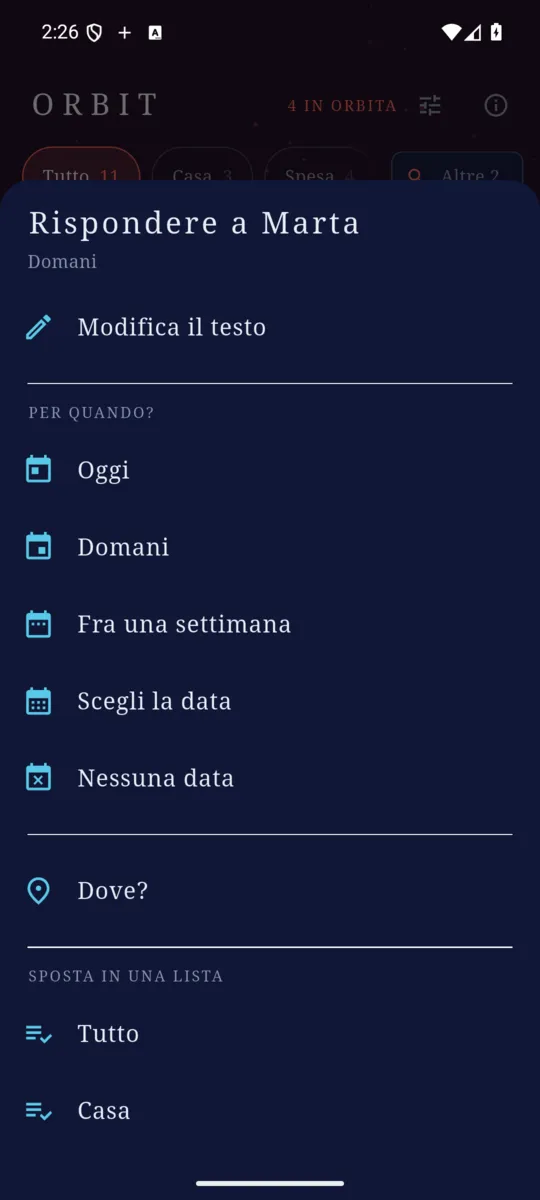
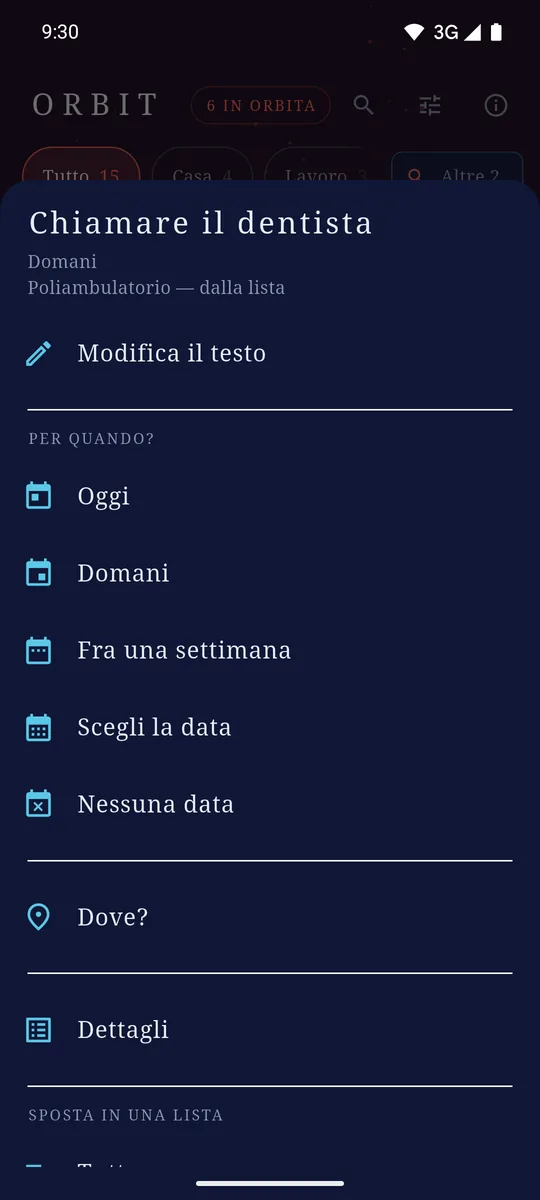
docs: la pagina di Orbit racconta le due viste
Schermate rifatte e due in più: la vista orbita, che tiene solo quello
che si sta avvicinando, e il foglio di una lista con la riga che la tiene
fuori da «Tutto». Nell'elenco di cosa fa entrano le due viste, le liste
nascoste e le cose fatte che escono dalla lista.

La schermata della condivisione mostra ora il foglio con il percorso
della cartella, che è il punto della funzione, invece di una lista con i
nomi di chi ha scritto cosa.

diff --git a/mcma-orbit/index.html b/mcma-orbit/index.html
@@ -31,6 +31,14 @@
       <figcaption>In cima c’è quello che preme di più. Il colore è la scadenza, non un’etichetta.</figcaption>
     </figure></li>
     <li><figure>
+      <img src="assets/shot-8.webp" loading="lazy" alt="La stessa lista con la vista orbita accesa: il numero in alto è illuminato e restano sei voci, quelle che si stanno avvicinando.">
+      <figcaption>Tocca il numero in alto e resta solo quello che sta arrivando, da tutte le liste.</figcaption>
+    </figure></li>
+    <li><figure>
+      <img src="assets/shot-9.webp" loading="lazy" alt="Il foglio di una lista, con la riga che la nasconde da «Tutto».">
+      <figcaption>Una lista può stare fuori da «Tutto» — la spesa, mentre lavori — e restare a un tocco.</figcaption>
+    </figure></li>
+    <li><figure>
       <img src="assets/shot-6.webp" loading="lazy" alt="Il foglio dei dettagli di una voce: un codice di ritiro, un collegamento ai referti, e sotto un numero di telefono che arriva dalla lista.">
       <figcaption>Quello che una voce si porta dietro. Le ultime due gliele presta la lista.</figcaption>
     </figure></li>
@@ -43,8 +51,8 @@
       <figcaption>Una lista per cosa, e le due o tre che usi restano in vista.</figcaption>
     </figure></li>
     <li><figure>
-      <img src="assets/shot-3.webp" loading="lazy" alt="Una lista condivisa: ogni voce porta il nome di chi l’ha scritta e il luogo della lista.">
-      <figcaption>Una lista condivisa: si vede chi ha toccato cosa, e il luogo vale per tutte.</figcaption>
+      <img src="assets/shot-3.webp" loading="lazy" alt="Il foglio della condivisione: il percorso della cartella da consegnare, e il pulsante per copiarlo.">
+      <figcaption>Condividere è dare alla lista una cartella, e consegnarla tu: nessun account.</figcaption>
     </figure></li>
     <li><figure>
       <img src="assets/shot-4.webp" loading="lazy" alt="Il foglio di una voce: data, luogo e lista in cui spostarla.">
@@ -72,6 +80,14 @@
     invece di venti.</li>
     <li><strong>Dettagli.</strong> Una voce può portarsi dietro un collegamento,
     un numero di telefono, un'e-mail, un codice. Un tocco apre, chiama, copia.</li>
+    <li><strong>Due viste, un tocco per passare.</strong> La lista è dove sono
+    archiviate le cose; l'orbita è cosa sta arrivando. Il numero in alto è il
+    passaggio fra le due.</li>
+    <li><strong>Una lista può stare fuori da «Tutto».</strong> La spesa non è una
+    cosa da leggere mentre lavori. Quello che nascondi continua a pesare nel
+    cielo e nei promemoria: è una scelta su cosa leggere, non su cosa sapere.</li>
+    <li><strong>Le cose fatte escono dalla lista</strong>, e una riga in fondo
+    dice quante sono: un tocco e tornano.</li>
     <li><strong>La ricerca guarda ovunque</strong>: in tutte le liste insieme,
     nei titoli e nei dettagli.</li>
     <li><strong>Promemoria</strong> alla data che hai messo, e widget per la

diff --git a/mcma-orbit/en/index.html b/mcma-orbit/en/index.html
@@ -30,6 +30,14 @@
       <figcaption>What presses hardest is at the top. The colour is the deadline, not a label.</figcaption>
     </figure></li>
     <li><figure>
+      <img src="../assets/shot-8.webp" loading="lazy" alt="The same list with the orbit view on: the count in the header is lit and six entries remain, the ones coming closer.">
+      <figcaption>Tap the count in the header and only what is coming stays, across every list.</figcaption>
+    </figure></li>
+    <li><figure>
+      <img src="../assets/shot-9.webp" loading="lazy" alt="A list's sheet, with the row that hides it from &quot;Everything&quot;.">
+      <figcaption>A list can stay out of "Everything" — the shopping, while you work — and still be one tap away.</figcaption>
+    </figure></li>
+    <li><figure>
       <img src="../assets/shot-6.webp" loading="lazy" alt="An entry's details sheet: a collection code, a link to the results, and below them a phone number coming from the list.">
       <figcaption>What an entry carries with it. The last two are lent by its list.</figcaption>
     </figure></li>
@@ -42,8 +50,8 @@
       <figcaption>A list per thing, and the two or three you live in stay in sight.</figcaption>
     </figure></li>
     <li><figure>
-      <img src="../assets/shot-3.webp" loading="lazy" alt="A shared list: every entry carries who wrote it and the place of the list.">
-      <figcaption>A shared list: you can see who touched what, and the place covers them all.</figcaption>
+      <img src="../assets/shot-3.webp" loading="lazy" alt="The sharing sheet: the path of the folder to hand over, and the button that copies it.">
+      <figcaption>Sharing gives the list a folder, and you hand it over: no account anywhere.</figcaption>
     </figure></li>
     <li><figure>
       <img src="../assets/shot-4.webp" loading="lazy" alt="An entry's sheet: date, place, and the list to move it to.">
@@ -70,6 +78,15 @@
     supermarket is once instead of twenty times.</li>
     <li><strong>Details.</strong> An entry can carry a link, a phone number, an
     e-mail address, a code. One tap opens, dials, copies.</li>
+    <li><strong>Two views, one tap apart.</strong> The list is where things are
+    filed; the orbit is what is coming. The count in the header is the way
+    between them.</li>
+    <li><strong>A list can stay out of "Everything".</strong> The shopping is not
+    something to read while you work. What you hide still counts towards the sky
+    and the reminders: it is a choice about what to read, not about what to
+    know.</li>
+    <li><strong>Finished things leave the list</strong>, and a row at the foot
+    says how many there are: one tap brings them back.</li>
     <li><strong>Search looks everywhere</strong>: across every list at once, in
     the titles and in the details.</li>
     <li><strong>Reminders</strong> at the date you set, and home-screen widgets —
